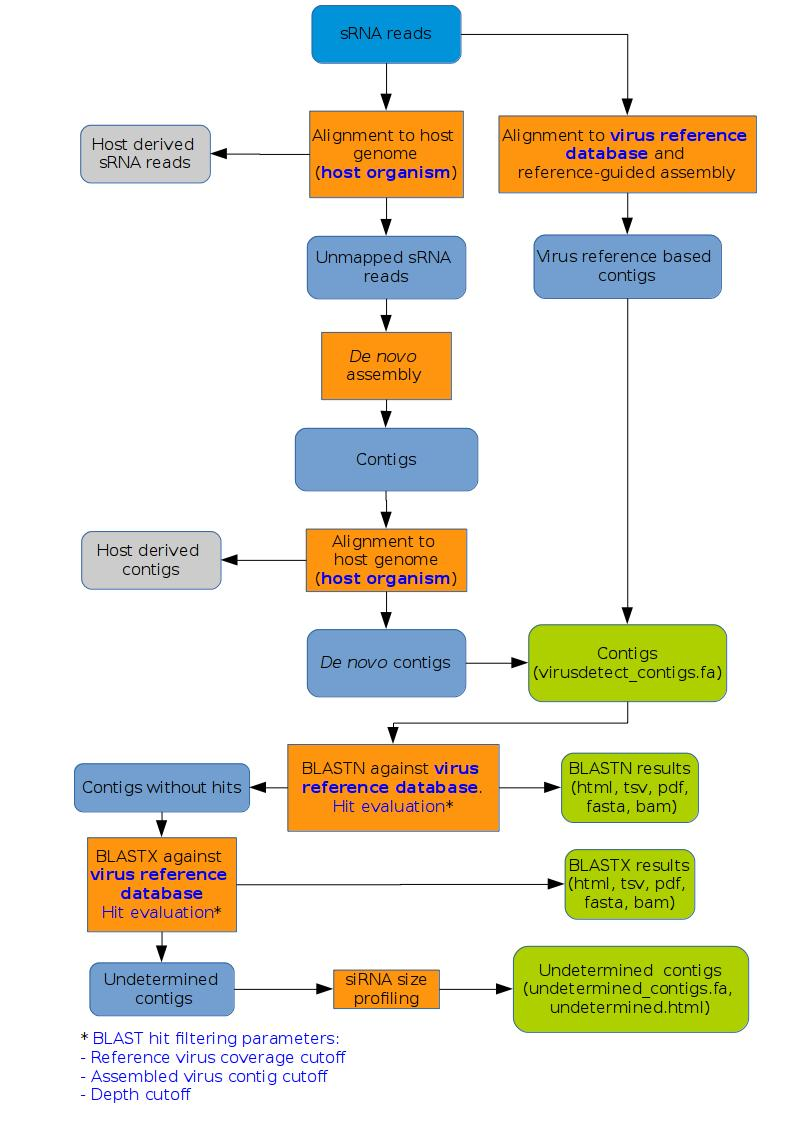
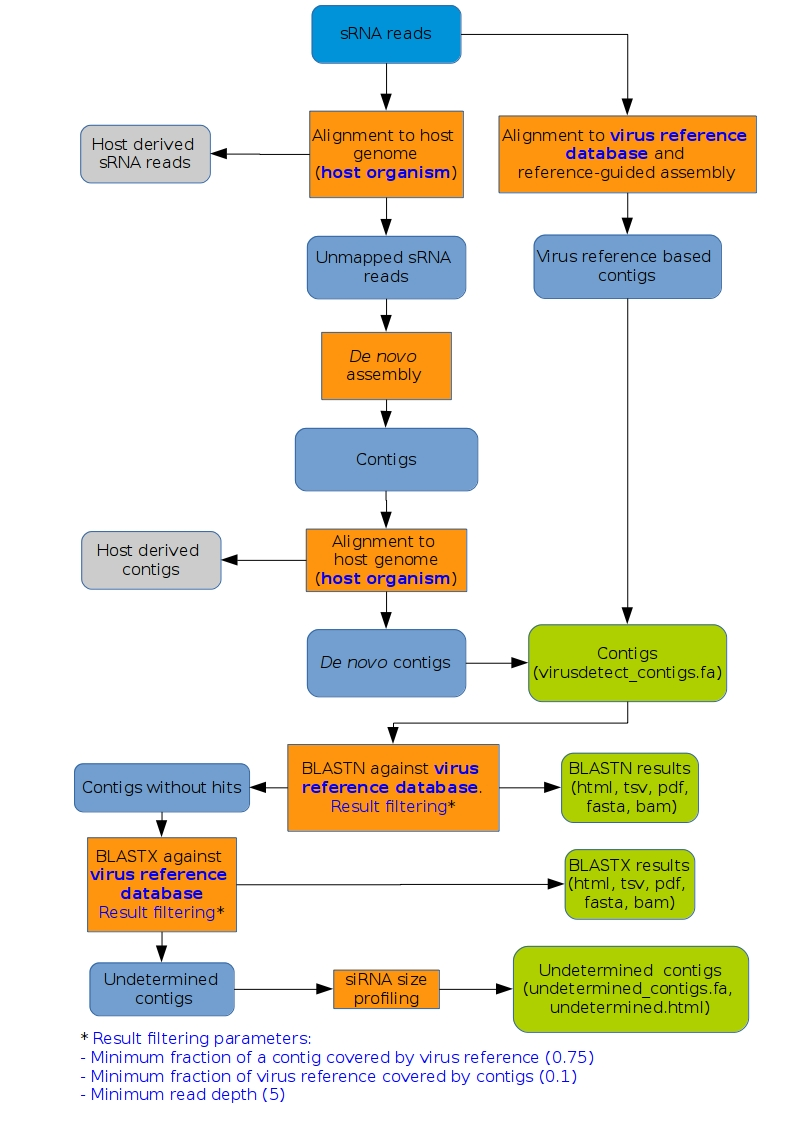
Parameters updated.

diff --git a/manual/virusdetect-with-index-building.html b/manual/virusdetect-with-index-building.html
@@ -35,15 +35,15 @@ This tool requires two input files:
 <li><b>Reference virus database</b>: VirusDetect is mainly used for detecting plant viruses, but you can use it for other viruses too. Use this parameter to select a virus reference database matching you virus type.</li>
 </p>
 <p>
-<li><b>Minimum fraction of a contig covered by reference</b>: At least this proportion of the contig has to match to the reference in order to consider the match significant for the virus assignment. 
+<li><b>Minimum fraction of a contig covered by virus reference</b>: At least this proportion of the contig has to match to the reference in order to consider the match significant for the virus assignment. 
 For example the default value 0.75 means that only contigs that match to a virus reference for more than 75% of their length are considered as significant matches. </li>
 </p>
 <p>
-<li><b>Minimum fraction of reference covered by contigs</b>: Virus assignment is reported only if more than the given proportion of the virus reference is
+<li><b>Minimum fraction of virus reference covered by contigs</b>: Virus assignment is reported only if more than the given proportion of the virus reference is
  covered with significant matches to contigs. For example the default value 0.1 means that at least 10 % of the virus reference sequence must match to the contigs generated by VirusDetect.</li>
 </p>
 <p>
-<li><b>Depth cutoff</b>: The average number of times each nucleotide of the reference sequence must be covered by reads in the sample.</li>
+<li><b>Minimum read depth</b>: The average number of times each nucleotide of the reference sequence must be covered by reads in the sample.</li>
 </p>
 <p>
 <li><b>Use input names in output file names</b>: The names of the VirusDetect result files will start with the name of the input file.</li>

diff --git a/manual/virusdetect.html b/manual/virusdetect.html
@@ -34,15 +34,15 @@ and selecting only those reads that do not match. Also the resulting contigs are
 </li>
 </p>
 <p>
-<li><b>Minimum fraction of a contig covered by reference</b>: At least this proportion of the contig has to match to the reference in order to consider the match significant for the virus assignment. 
+<li><b>Minimum fraction of a contig covered by virus reference</b>: At least this proportion of the contig has to match to the reference in order to consider the match significant for the virus assignment. 
 For example the default value 0.75 means that only contigs that match to a virus reference for more than 75% of their length are considered as significant matches. </li>
 </p>
 <p>
-<li><b>Minimum fraction of reference covered by contigs</b>: Virus assignment is reported only if more than the given proportion of the virus reference is
+<li><b>Minimum fraction of virus reference covered by contigs</b>: Virus assignment is reported only if more than the given proportion of the virus reference is
  covered with significant matches to contigs. For example the default value 0.1 means that at least 10 % of the virus reference sequence must match to the contigs generated by VirusDetect.</li>
 </p>
 <p>
-<li><b>Depth cutoff</b>: The average number of times each nucleotide of the reference sequence must be covered by reads in the sample.</li>
+<li><b>Minimum read depth</b>: The average number of times each nucleotide of the reference sequence must be covered by reads in the sample.</li>
 </p>
 <p>
 <li><b>Use input names in output file names</b>: The names of the VirusDetect result files will start with the name of the input file.</li>
